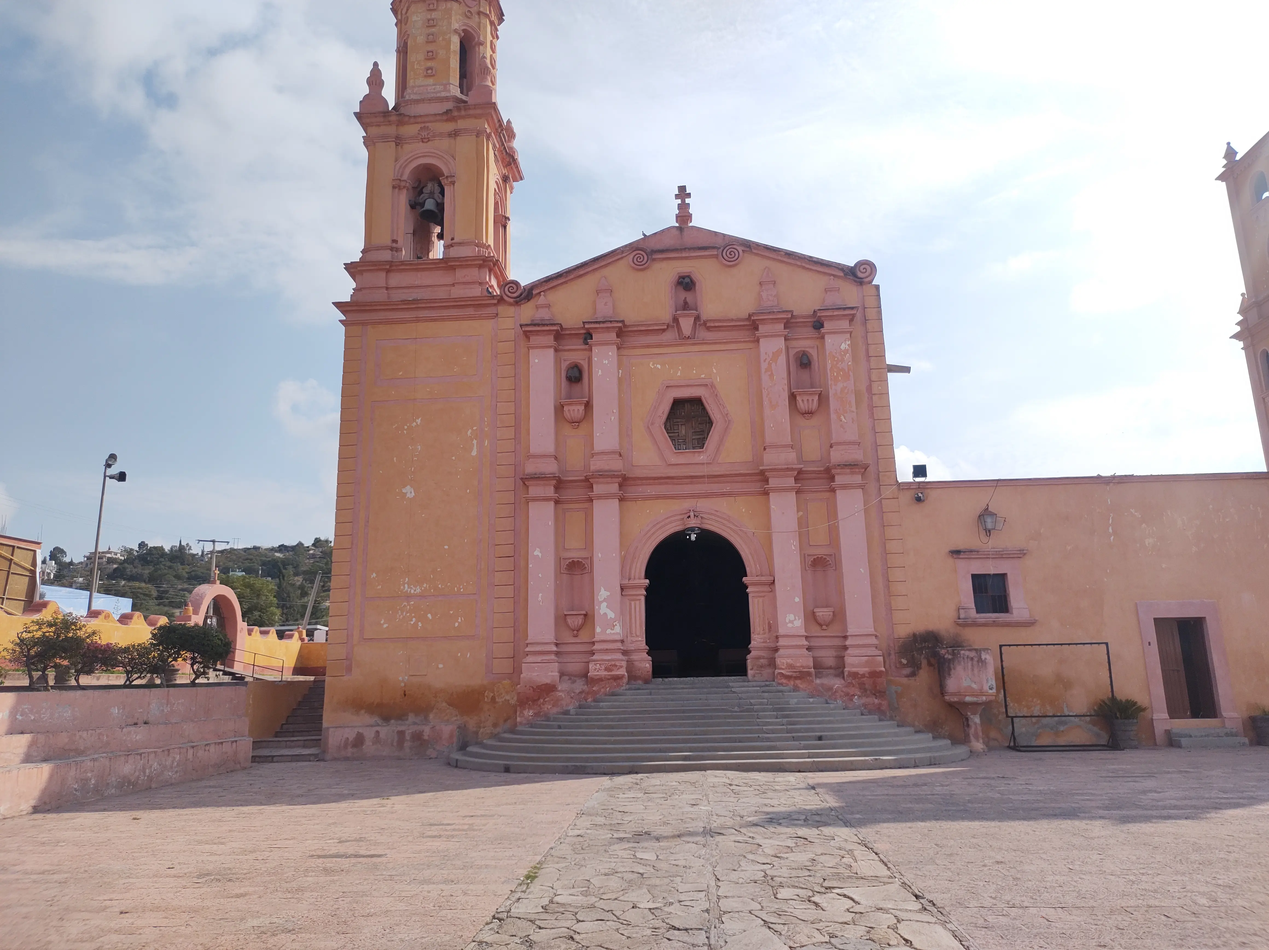
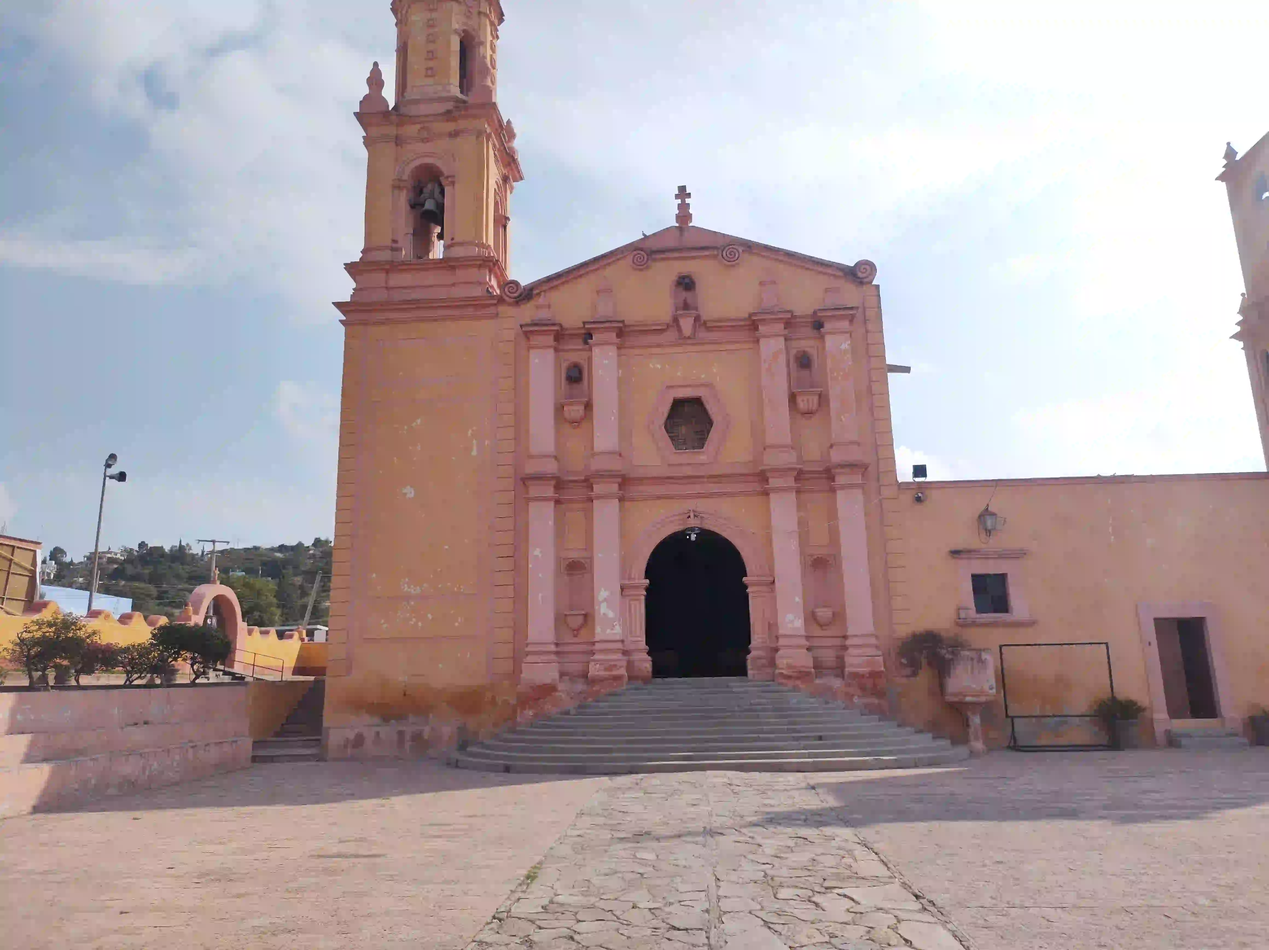
se aliminaron imagenes no utilizadas y se mejoraron imagene para el rendimiento

diff --git a/index.html b/index.html
@@ -140,7 +140,7 @@
               <div class="img">
                 <a href="https://villaprogreso.com/" target="_blank">
                   <img
-                    src="./assets/img/villa/letras169.jpg"
+                    src="./assets/img/villa/letras169.webp"
                     alt=""
                     draggable="false"
                   />
